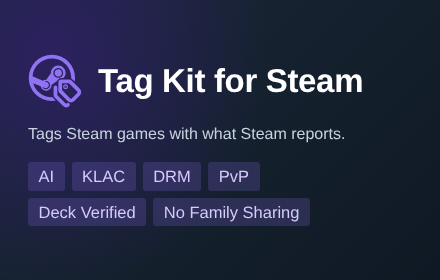
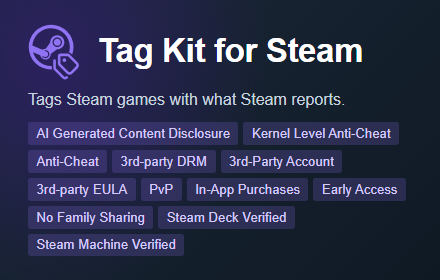
docs(store): add a 1280x640 GitHub social preview built from the marquee (#159)

diff --git a/docs/store/assets/marquee.html b/docs/store/assets/marquee.html
@@ -13,14 +13,14 @@
       --h: 560px;
       --pad: 90px;
       --gap: 60px;
-      --mark: 240px;
-      --title: 100px;
-      --tagline: 40px;
-      --tagline-gap: 20px;
+      --mark: 220px;
+      --title: 84px;
+      --tagline: 32px;
+      --tagline-gap: 14px;
       --more: 28px;
-      --chips-gap: 48px;
-      --chip-gap: 16px;
-      --k: 2.8;
+      --chips-gap: 28px;
+      --chip-gap: 12px;
+      --k: 2.1;
     }
     </style>
   </head>
@@ -30,16 +30,19 @@
       <div class="copy">
         <div class="title">Tag Kit for Steam</div>
         <p class="tagline">Tags Steam games with what Steam reports.</p>
-        <p class="more">AI disclosure, anti-cheat, DRM, Steam Deck, Family Sharing and more.</p>
         <div class="chips">
-          <span class="chip">AI</span>
-          <span class="chip">KLAC</span>
-          <span class="chip">DRM</span>
+          <span class="chip">AI Generated Content Disclosure</span>
+          <span class="chip">Kernel Level Anti-Cheat</span>
+          <span class="chip">Anti-Cheat</span>
+          <span class="chip">3rd-party DRM</span>
+          <span class="chip">3rd-Party Account</span>
+          <span class="chip">3rd-party EULA</span>
           <span class="chip">PvP</span>
-        </div>
-        <div class="chips next">
-          <span class="chip">Deck Verified</span>
+          <span class="chip">In-App Purchases</span>
+          <span class="chip">Early Access</span>
           <span class="chip">No Family Sharing</span>
+          <span class="chip">Steam Deck Verified</span>
+          <span class="chip">Steam Machine Verified</span>
         </div>
       </div>
     </div>

diff --git a/docs/store/assets/social-preview.html b/docs/store/assets/social-preview.html
@@ -1,0 +1,50 @@
+<!DOCTYPE html>
+<html lang="en">
+  <head>
+    <meta charset="utf-8">
+    <meta name="viewport" content="width=1280">
+    <title>Tag Kit for Steam, social preview</title>
+    <link rel="stylesheet" href="../../design/tokens.css">
+    <link rel="stylesheet" href="graphics.css">
+    <style>
+    /* GitHub social preview, 1280 x 640 */
+    :root {
+      --w: 1280px;
+      --h: 640px;
+      --pad: 80px;
+      --gap: 56px;
+      --mark: 220px;
+      --title: 88px;
+      --tagline: 34px;
+      --tagline-gap: 16px;
+      --more: 26px;
+      --chips-gap: 32px;
+      --chip-gap: 12px;
+      --k: 2.3;
+    }
+    </style>
+  </head>
+  <body>
+    <div class="stage">
+      <img class="mark" src="../../../assets/icons/mark-purple.svg" alt="">
+      <div class="copy">
+        <div class="title">Tag Kit for Steam</div>
+        <p class="tagline">Tags Steam games with what Steam reports.</p>
+        <div class="chips">
+          <span class="chip">AI Generated Content Disclosure</span>
+          <span class="chip">Kernel Level Anti-Cheat</span>
+          <span class="chip">Anti-Cheat</span>
+          <span class="chip">3rd-party DRM</span>
+          <span class="chip">3rd-Party Account</span>
+          <span class="chip">3rd-party EULA</span>
+          <span class="chip">PvP</span>
+          <span class="chip">In-App Purchases</span>
+          <span class="chip">Early Access</span>
+          <span class="chip">No Family Sharing</span>
+          <span class="chip">Steam Deck Verified</span>
+          <span class="chip">Steam Machine Verified</span>
+        </div>
+      </div>
+    </div>
+  </body>
+</html>

diff --git a/docs/store/assets/promo-tile.html b/docs/store/assets/promo-tile.html
@@ -16,11 +16,11 @@
       --mark: 56px;
       --title: 33px;
       --tagline: 16px;
-      --tagline-gap: 12px;
+      --tagline-gap: 8px;
       --more: 13px;
-      --chips-gap: 18px;
-      --chip-gap: 7px;
-      --k: 1.5;
+      --chips-gap: 12px;
+      --chip-gap: 5px;
+      --k: 1.2;
     }
     .stage {
       flex-direction: column;
@@ -44,14 +44,18 @@
       <div class="copy">
         <p class="tagline">Tags Steam games with what Steam reports.</p>
         <div class="chips">
-          <span class="chip">AI</span>
-          <span class="chip">KLAC</span>
-          <span class="chip">DRM</span>
+          <span class="chip">AI Generated Content Disclosure</span>
+          <span class="chip">Kernel Level Anti-Cheat</span>
+          <span class="chip">Anti-Cheat</span>
+          <span class="chip">3rd-party DRM</span>
+          <span class="chip">3rd-Party Account</span>
+          <span class="chip">3rd-party EULA</span>
           <span class="chip">PvP</span>
-        </div>
-        <div class="chips next">
-          <span class="chip">Deck Verified</span>
+          <span class="chip">In-App Purchases</span>
+          <span class="chip">Early Access</span>
           <span class="chip">No Family Sharing</span>
+          <span class="chip">Steam Deck Verified</span>
+          <span class="chip">Steam Machine Verified</span>
         </div>
       </div>
     </div>

diff --git a/docs/store/assets/graphics.css b/docs/store/assets/graphics.css
@@ -1,5 +1,6 @@
 /*
- * Shared styles for the Chrome Web Store graphics (promo-tile.html, marquee.html).
+ * Shared styles for the store graphics and the GitHub social preview (promo-tile.html,
+ * marquee.html, social-preview.html).
  * Colors, type and chip shapes come from docs/design/tokens.css. The chips are the full badge
  * of docs/design/components.mdx scaled by --k, with no other change. No font is bundled: the
  * page's own stack resolves to whatever the machine has.
